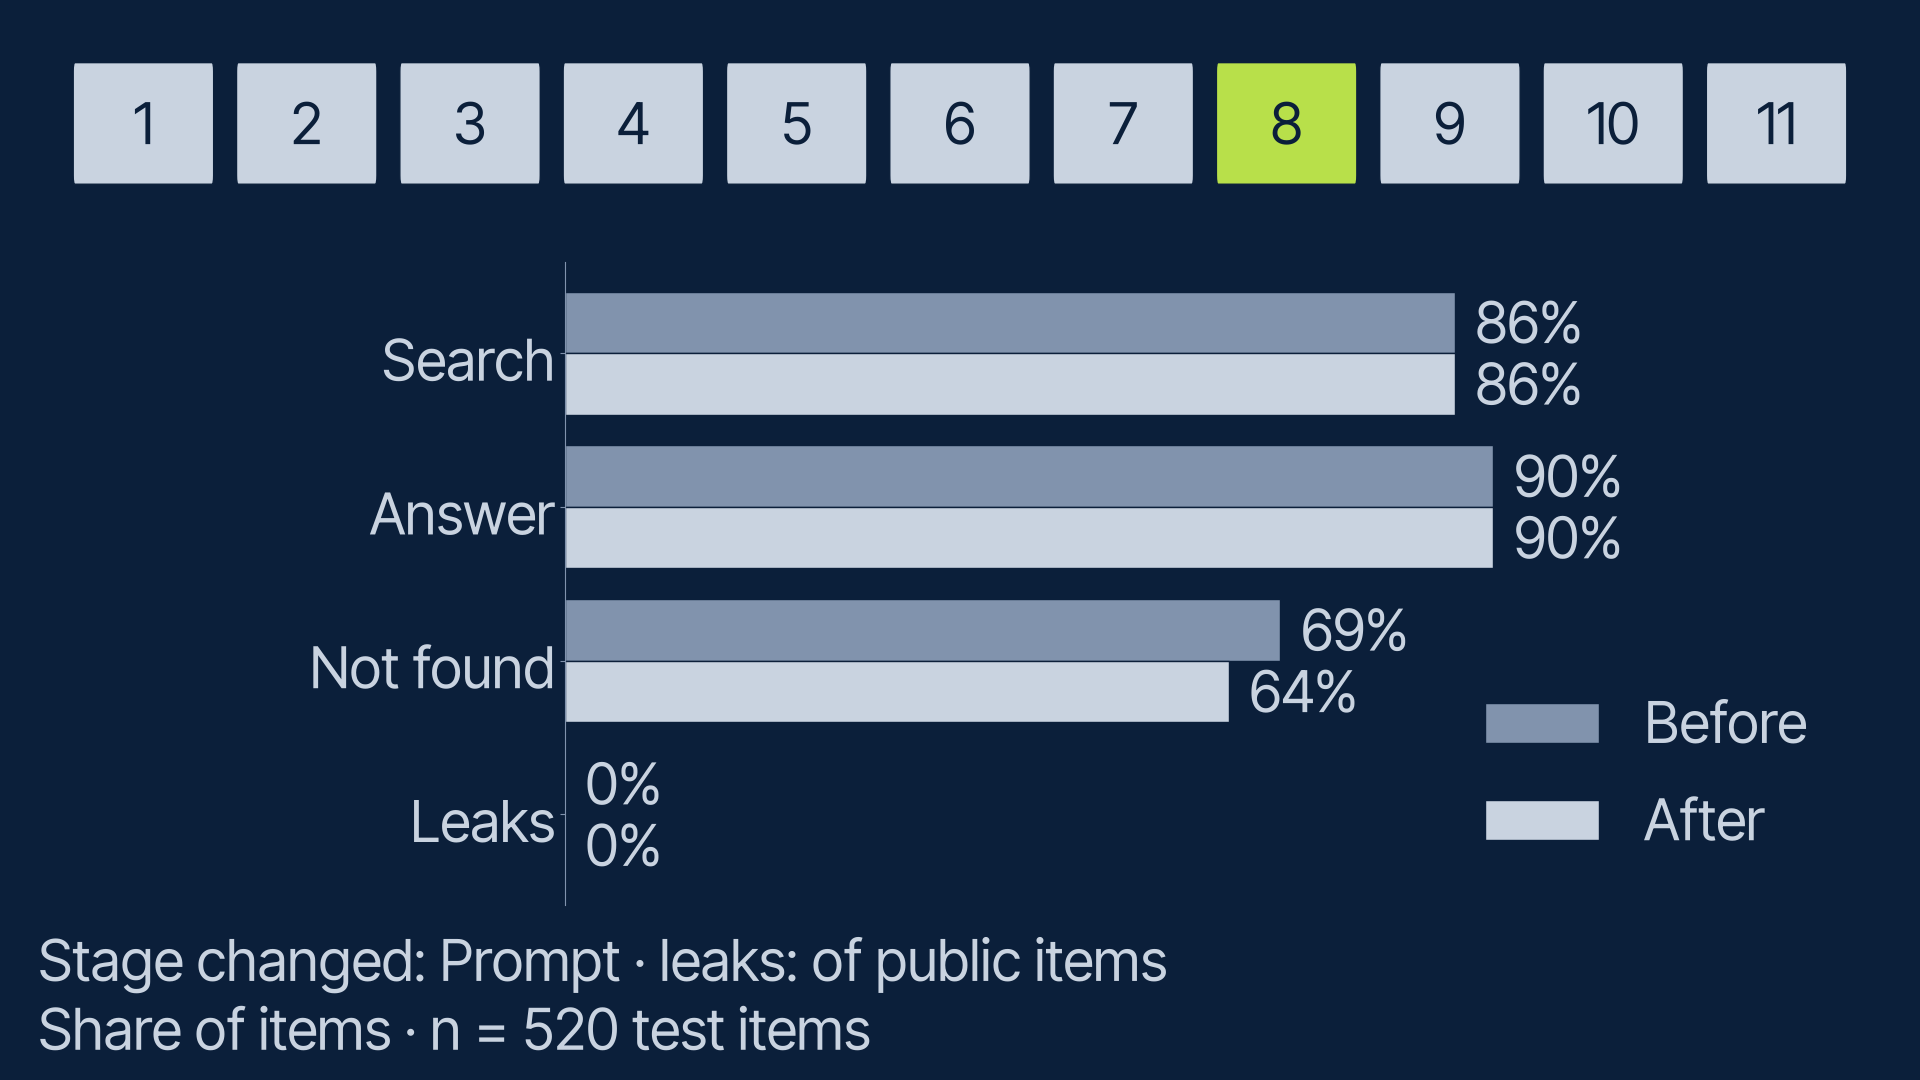
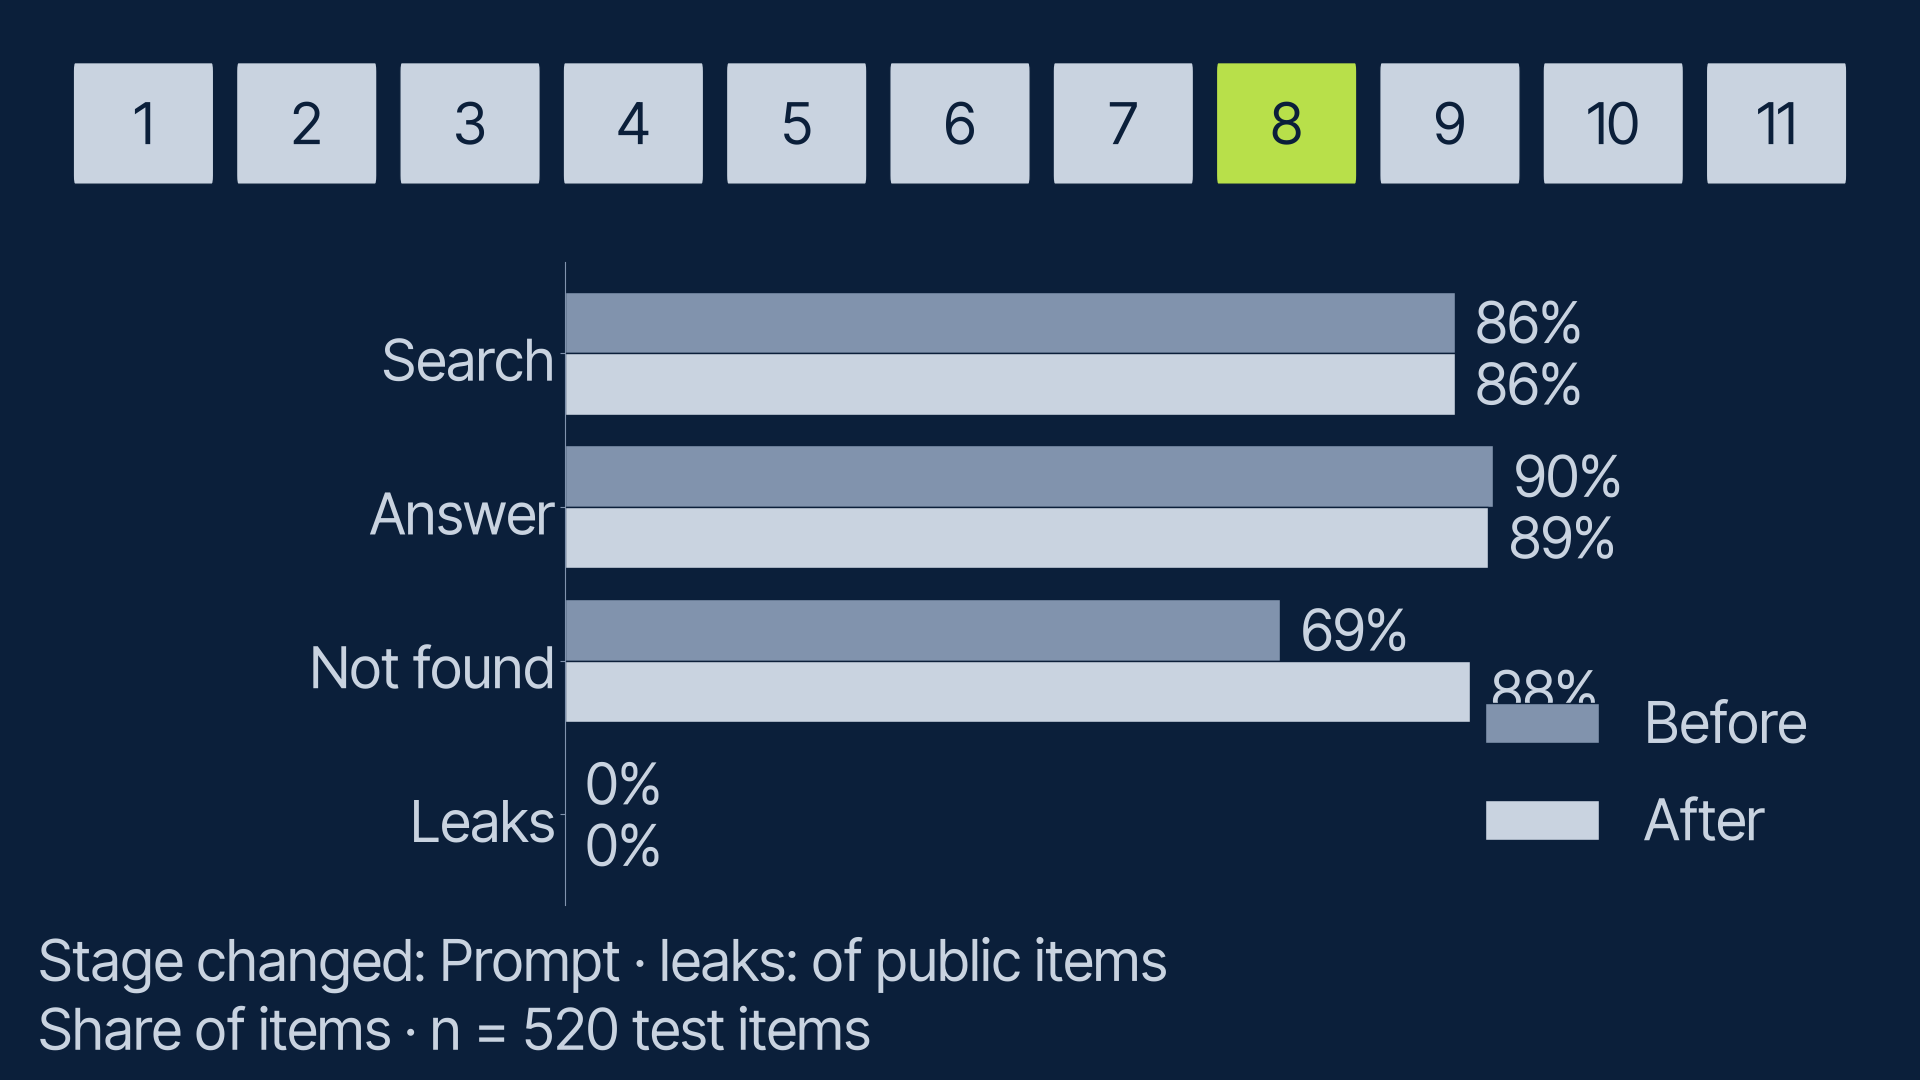
fix: E9's scoreboard row shows its best handled-right condition

Changed region(s): [[0.625, 0.6111, 0.8438, 0.6722], [0.7812, 0.4583, 0.8438, 0.5194]]

diff --git a/src/lab/rag/episode.py b/src/lab/rag/episode.py
@@ -258,7 +258,12 @@ def _numbers_chart(full, rows, charts):
 def _scoreboard(episode, report, full, library, charts, stage, pilot, results):
     candidates = [n for n in full if n != REFERENCE]
     joined = report["join"]["joined"]
-    shown = joined or max(candidates, key=lambda n: (full[n].search.count, full[n].answer.count))
+    # An episode's join rule may name the candidate to show; otherwise the best by search.
+    shown = (
+        joined
+        or report["join"].get("candidate")
+        or max(candidates, key=lambda n: (full[n].search.count, full[n].answer.count))
+    )
     summary = {
         n: json.loads((results / n / "summary.json").read_text(encoding="utf-8"))
         for n in (REFERENCE, shown)

diff --git a/episodes/s2-e9-building-the-prompt/analyse.py b/episodes/s2-e9-building-the-prompt/analyse.py
@@ -29,9 +29,10 @@ def join_rule(test):
         shares = {n: handled(test[n]) for n in full}
         passed = [n for n in full if n != REFERENCE and below(shares[REFERENCE], shares[n])]
         joined = max(passed, key=lambda n: shares[n].count, default=None)
+        best = max((n for n in full if n != REFERENCE), key=lambda n: shares[n].count, default=None)
         return {"rule": "share of the 520 handled right above the reference's interval",
                 "shares": {n: s.model_dump() for n, s in shares.items()},
-                "passed": passed, "joined": joined}
+                "passed": passed, "joined": joined, "candidate": best}
 
     return join
 
